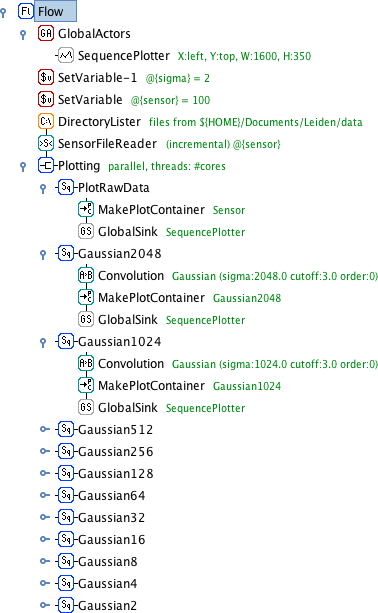
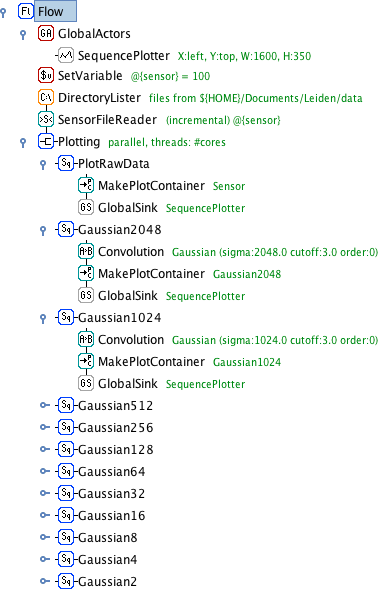
using "sensor" variable instead of "sigma", removed "sigma" variable from screenshots

diff --git a/ecml2012demo.tex b/ecml2012demo.tex
@@ -87,7 +87,7 @@ Figure \ref{flow} illustrates an ADAMS workflow. It reads files from a directory
 \paragraph{Control actors} can branch or merge sub-flows and define how data is passed between their sub-actors. \texttt{Sequence} \icon{sequence} executes its sub-actors in sequence, passing tokens from one to the next. \texttt{Branch}~\icon{branch} forwards each received token to all underlying actors and executes them in parallel. \texttt{Tee}~\icon{tee} splits off each input token, feeds it to its sub-flow and waits until it finishes before passing the token on. \texttt{Trigger}~\icon{trigger} simply starts its sub-flow upon receiving a token (without feeding the token to its sub-flow). \texttt{Injector}~\icon{injector} passes each received token on, but also injects a new token whose value is defined as a parameter. Some actors are conditioned on the value of the received token: \texttt{ConditionalTee}~\icon{conditionaltee} runs its sub-flow only if a stated condition holds, \texttt{If-Then-Else}~\icon{if} runs one of two sub-workflows depending on a test, and \texttt{WhileLoop}~\icon{while} loops over its sub-flow as long as its condition holds.
 
 \vspace{-5pt}
-\paragraph{N-to-M semantics.} While a tree representation cannot represent N-to-M relationships, ADAMS solves this shortcoming through \emph{variables, key-value pairs, and global actors}. String tokens can be assigned to a variable using a \texttt{SetVariable} actor (e.g., \texttt{@\{sigma\}} in Fig.\ref{flow}), and used as an actor parameter or reintroduced elsewhere as a token by the \texttt{Variable} actor. Similarly, any object token can be stored as a key-value pair by the \texttt{SetStorageValue} actor and reintroduced by the \texttt{StorageValue} actor. Finally, actors and their sub-flows can be made global: for instance, all tokens sent to a \texttt{GlobalSink} actor are passed to the referenced global actor, as shown in Fig. \ref{flow}. The scope of variables can be limited to one specific sub-flow by using the \texttt{LocalScope} control actor.
+\paragraph{N-to-M semantics.} While a tree representation cannot represent N-to-M relationships, ADAMS solves this shortcoming through \emph{variables, key-value pairs, and global actors}. String tokens can be assigned to a variable using a \texttt{SetVariable} actor (e.g., \texttt{@\{sensor\}} in Fig.\ref{flow}), and used as an actor parameter or reintroduced elsewhere as a token by the \texttt{Variable} actor. Similarly, any object token can be stored as a key-value pair by the \texttt{SetStorageValue} actor and reintroduced by the \texttt{StorageValue} actor. Finally, actors and their sub-flows can be made global: for instance, all tokens sent to a \texttt{GlobalSink} actor are passed to the referenced global actor, as shown in Fig. \ref{flow}. The scope of variables can be limited to one specific sub-flow by using the \texttt{LocalScope} control actor.
 
 \vspace{-5pt}
 \paragraph{Interactivity.} Actors can interact with the user when needed through dialog. For instance, they can ask the user to locate an undefined file, or display a number of results and allow the user to make a subselection before proceeding.
